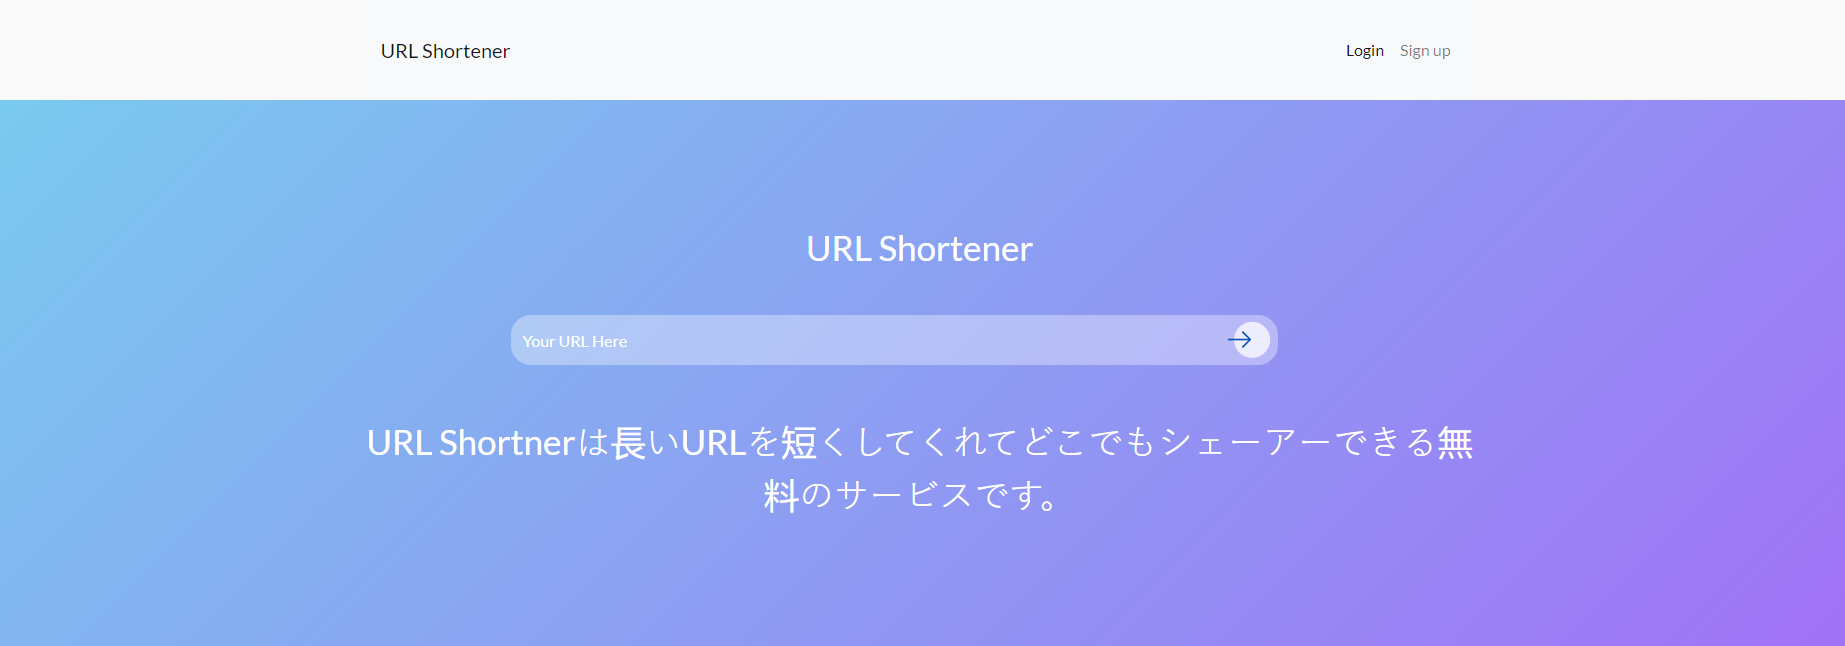
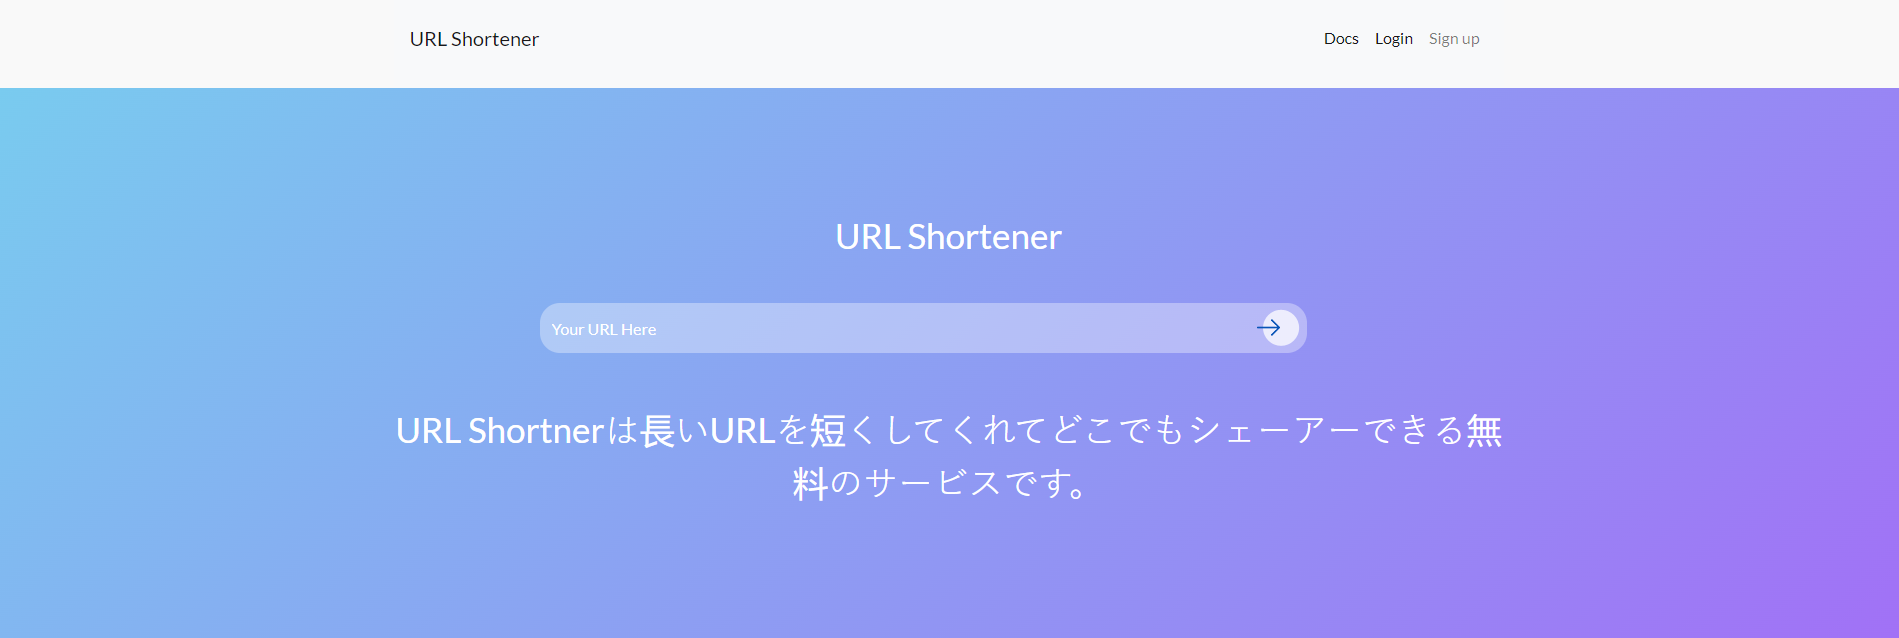
doc added

diff --git a/resources/views/front/header.blade.php b/resources/views/front/header.blade.php
@@ -10,6 +10,9 @@
                 <div class="collapse navbar-collapse" id="navbarSupportedContent">
                   <ul class="navbar-nav ml-auto">
                     <li class="nav-item active">
+                      <a class="nav-link" href="https://github.com/keinpyisi/ShortURL/blob/main/README.md">Docs</a>
+                    </li>
+                    <li class="nav-item active">
                       <a class="nav-link" href="{{url('/admin/login')}}">Login <span class="sr-only">(current)</span></a>
                     </li>
                     <li class="nav-item">
